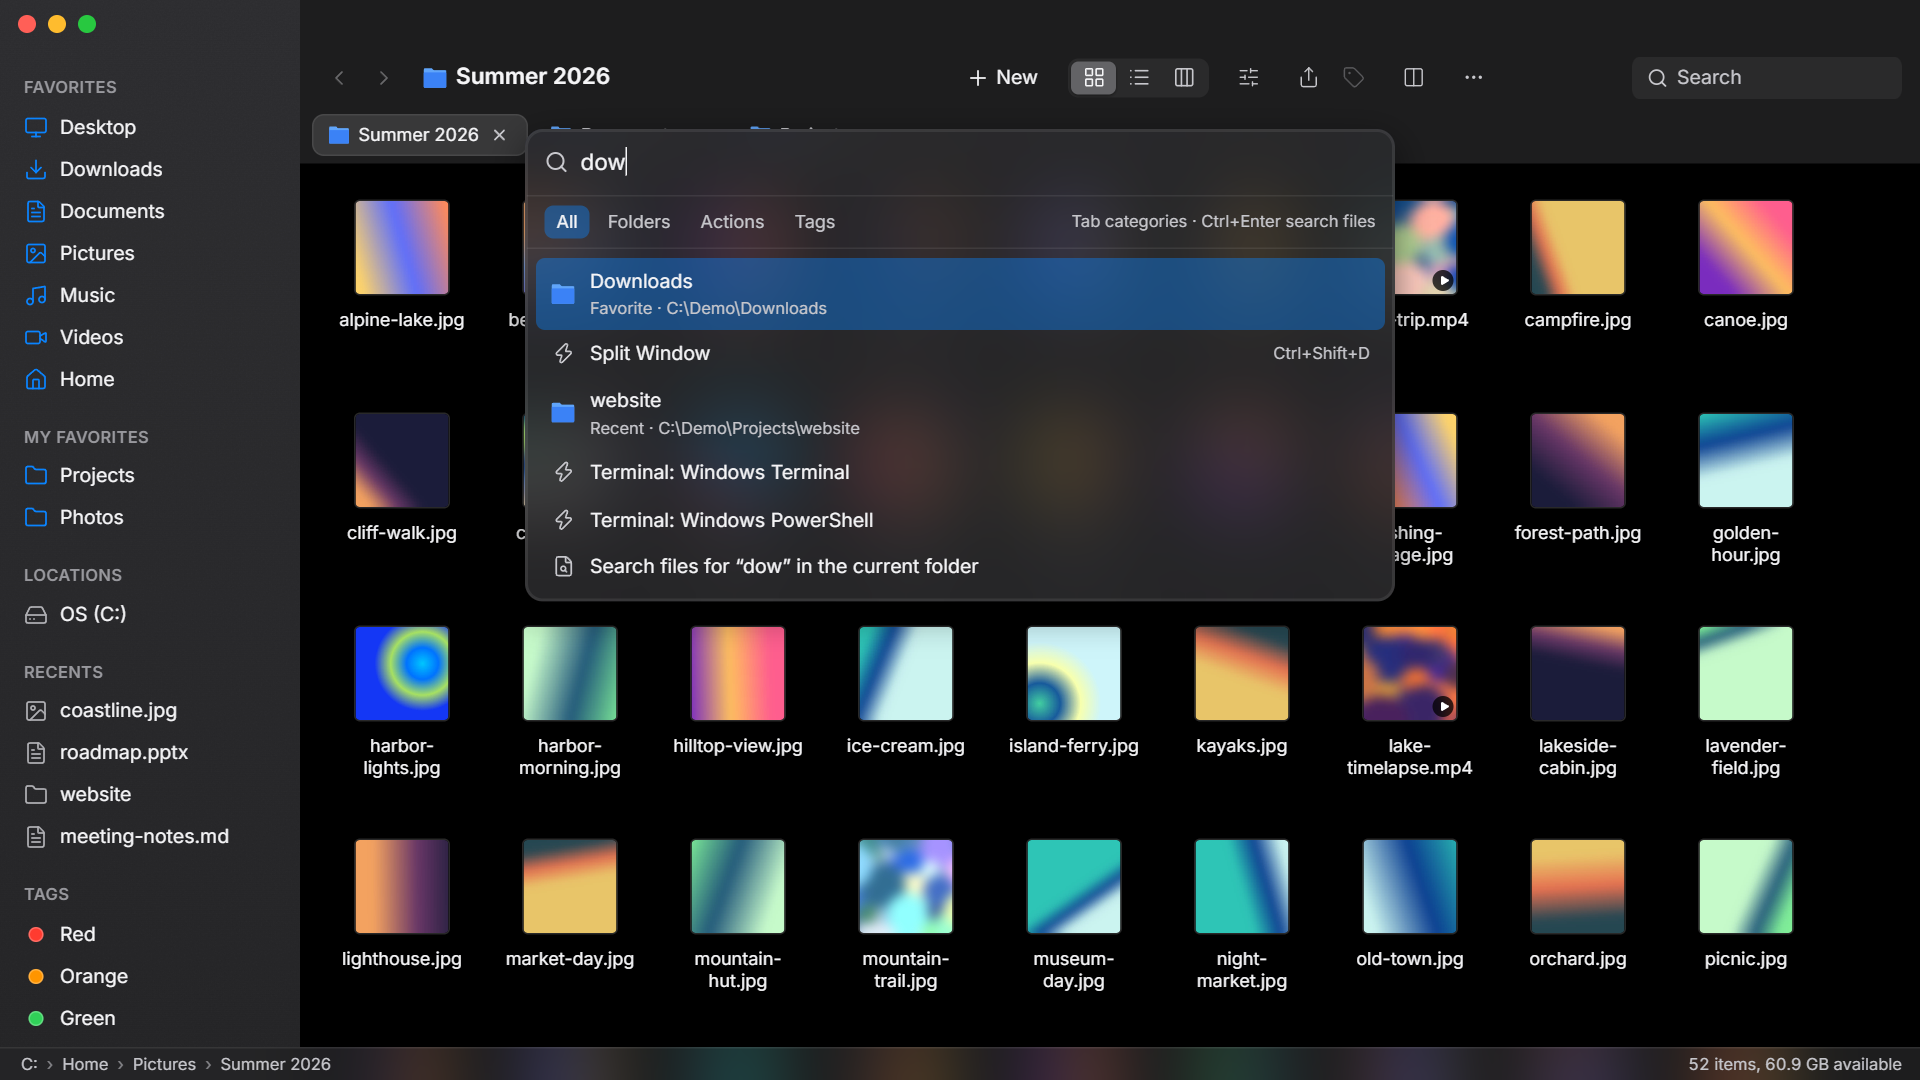
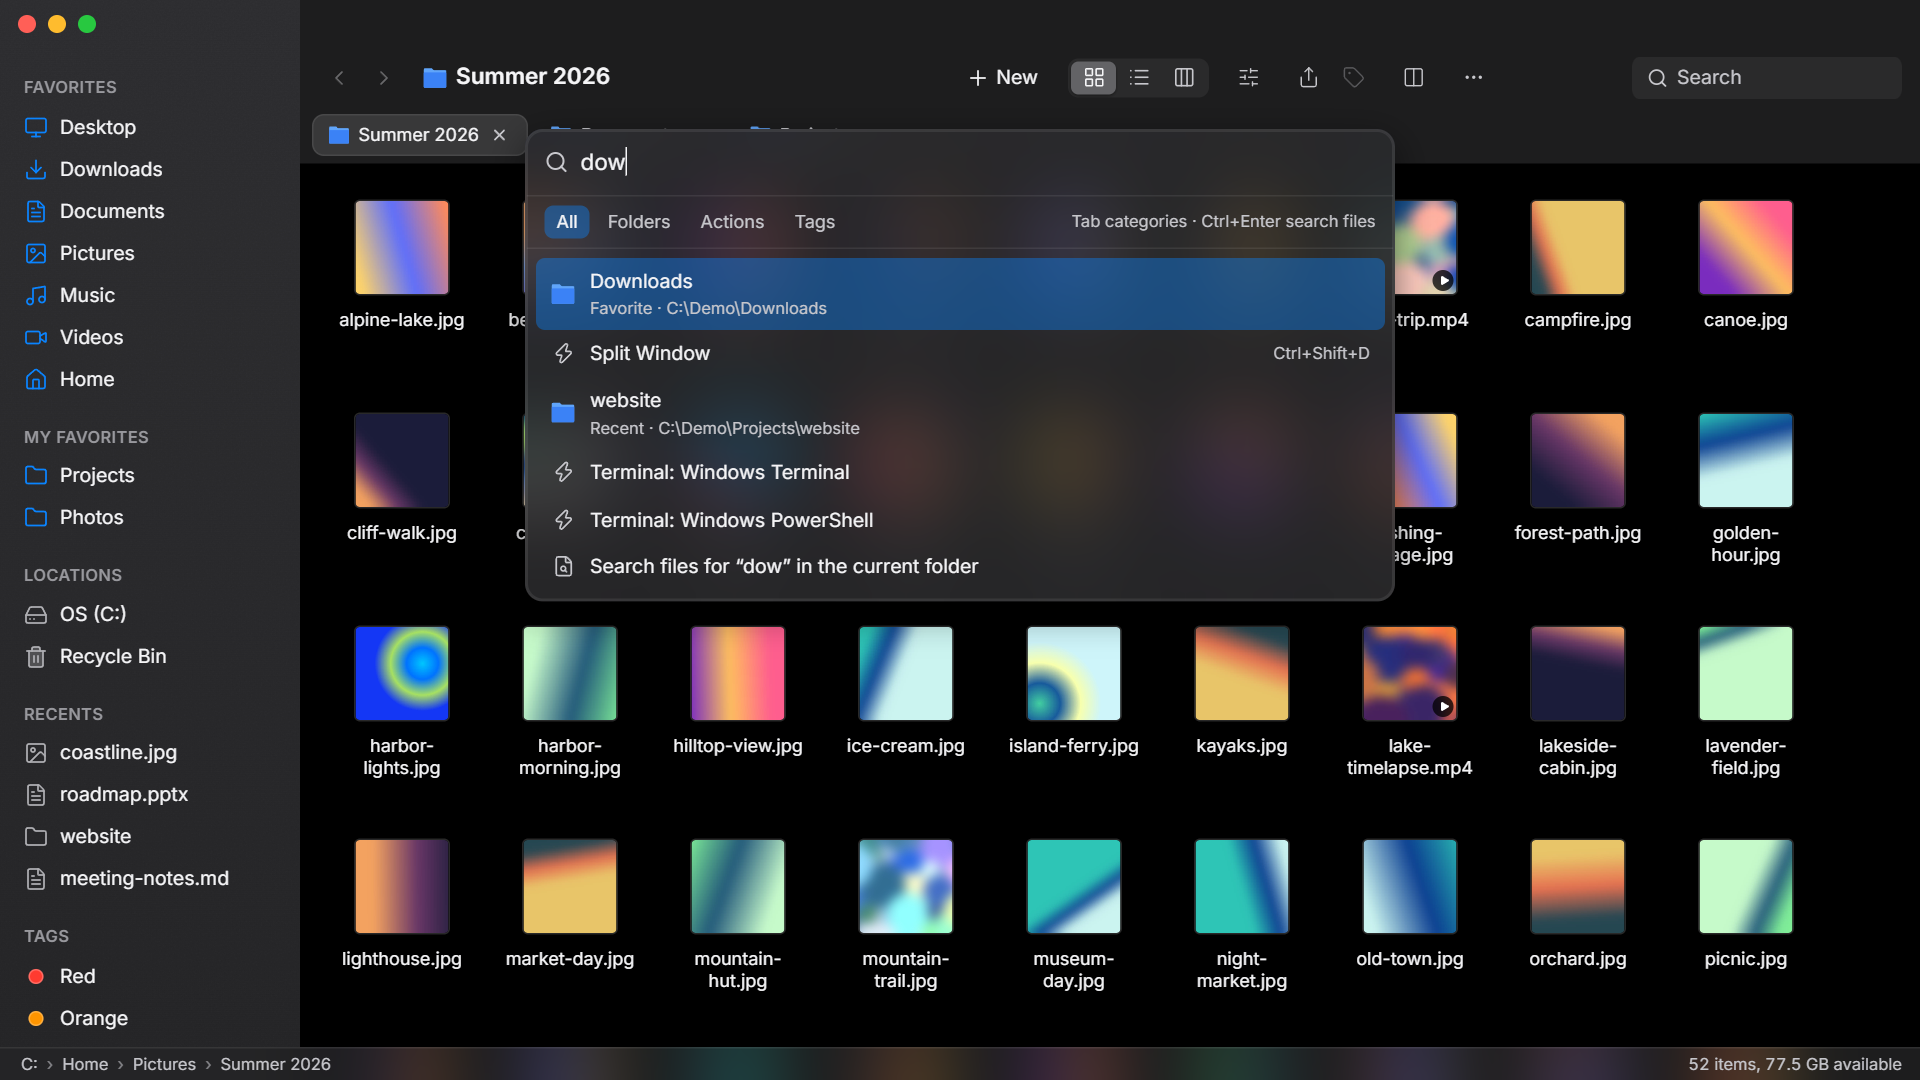
Store 1.5.2: screenshoty ve vzhledu 1.5.2, listing bez Průzkumníku, novinky 1.5.2

diff --git a/docs/store-listing.md b/docs/store-listing.md
@@ -27,7 +27,7 @@ Browse deep folder trees in Column view with a preview pane, or switch to Icons 
 
 Press Ctrl+K to open the command palette: jump to favorites, recent folders and tabs, run any action, or type a path. Press Space for a quick preview – images, PDF, video, audio, text, source code and Markdown.
 
-Finder-Win works with the real Windows clipboard, so you can copy files to and from File Explorer, Outlook or your browser. Drag & drop works both ways: drag files in from File Explorer or the desktop, and drag them out to File Explorer, the desktop, a browser upload, Discord or an e-mail. The New button creates folders, text documents and every file type Windows offers in its New menu. Undo and redo cover the last 50 operations, including deletions (restored from the Recycle Bin).
+Finder-Win works with the real Windows clipboard, so you can copy files to and from other apps such as Outlook or your browser. Drag & drop works both ways: drag files in from other windows or the desktop, and drag them out to other windows, the desktop, a browser upload, Discord or an e-mail. The New button creates folders, text documents and every file type Windows offers in its New menu. Undo and redo cover the last 50 operations, including deletions (restored from the Recycle Bin). The Recycle Bin is right in the sidebar: restore items, delete them permanently or empty it. In protected places, such as the root of the C: drive, choose Continue as Administrator and confirm the Windows prompt.
 
 A translucent glass look is the default. Turn on Transparency in More → Appearance for a transparent window – the desktop and other windows show through the app. Choose the strength from three levels.
 
@@ -36,24 +36,25 @@ Light and dark mode follow Windows. The interface is in English and Czech.
 Privacy: no telemetry, no account, no ads. The Microsoft Store version itself makes no network requests – updates come from the Store.
 
 ### What's new
-Version 1.5.0
-- New default look: glass – the title bar, toolbar, tabs, menus and command palette are translucent and blurred.
-- Window transparency (More → Appearance): a transparent window, the desktop and other windows show through the app; three strengths.
-- Smoother scrolling in long lists.
-- Fixed: the app stopped responding after pressing the Alt key on its own.
-- Fixed: the colour tag palette in the context menu was too narrow.
+Version 1.5.2
+- Recycle Bin in the sidebar: see where items came from and when they were deleted, restore them, delete them permanently or empty the Recycle Bin.
+- Continue as Administrator: deleting, moving, copying, renaming and creating folders in protected places now asks Windows for confirmation instead of failing.
+- Shift+Delete deletes permanently (with confirmation).
+- Clearer error messages that name each failed item and the reason.
+- With Transparency on, files no longer show through under the top bar and the status bar.
 
-### Features (6–10)
+### Features (max 20)
 1. Column view with a preview pane, plus Icons and List views
 2. Tabs with their own history, view and sorting
 3. Split view: two panels, F5 / F6 copy and move between them
 4. Command palette (Ctrl+K) for folders, actions, tags and paths
 5. Quick preview (Space) for images, PDF, video, audio, text and Markdown
 6. Video and PDF thumbnails with duration, resolution and page count
-7. Real Windows clipboard; drag & drop to and from File Explorer, browser, Discord and e-mail
+7. Real Windows clipboard; drag & drop to and from other apps, the desktop, browser, Discord and e-mail
 8. New button: folder, text document and the Windows New file types
 9. Undo / redo for the last 50 file operations
 10. Glass look with optional window transparency; light and dark mode that follows Windows; English and Czech
+11. Recycle Bin in the sidebar: restore, delete permanently, empty
 
 ### Keywords (max 7)
 > Pravidlo Store 10.1.3: klíčová slova nesmí obsahovat Mac, macOS, Finder ani Explorer (v žádném jazyce).
@@ -77,7 +78,7 @@ Hluboké stromy složek procházíš ve sloupcovém zobrazení s náhledovým pa
 
 Ctrl+K otevře paletu příkazů: skok na oblíbené a nedávné složky či záložky, libovolná akce nebo zadání cesty. Mezerník otevře rychlý náhled – obrázky, PDF, video, zvuk, text, zdrojáky i Markdown.
 
-Finder-Win používá skutečnou schránku Windows, takže soubory kopíruješ z i do Průzkumníku, Outlooku nebo prohlížeče. Přetahování funguje oběma směry: soubory přetáhneš dovnitř z Průzkumníku nebo z plochy a ven do Průzkumníku, na plochu, do prohlížeče, Discordu nebo e-mailu. Tlačítko Nový vytvoří složku, textový dokument i jakýkoli typ souboru z nabídky Nový ve Windows. Zpět a Znovu fungují pro posledních 50 operací včetně mazání (obnoví z Koše).
+Finder-Win používá skutečnou schránku Windows, takže soubory kopíruješ z i do jiných aplikací, třeba Outlooku nebo prohlížeče. Přetahování funguje oběma směry: soubory přetáhneš dovnitř z jiných oken nebo z plochy a ven do jiných oken, na plochu, do prohlížeče, Discordu nebo e-mailu. Tlačítko Nový vytvoří složku, textový dokument i jakýkoli typ souboru z nabídky Nový ve Windows. Zpět a Znovu fungují pro posledních 50 operací včetně mazání (obnoví z Koše). Koš je přímo v postranním panelu: položky obnovíš, trvale smažeš nebo koš vysypeš. V chráněných místech, třeba v kořeni disku C:, zvolíš Pokračovat jako správce a potvrdíš výzvu Windows.
 
 Výchozí je skleněný vzhled s poloprůhlednými panely. V Více → Vzhled zapneš Průhlednost: průhledné okno, za aplikací prosvítá plocha a okna. Vybereš sílu ze tří úrovní.
 
@@ -86,24 +87,25 @@ Světlý a tmavý režim se řídí Windows. Rozhraní je česky a anglicky.
 Soukromí: žádná telemetrie, žádný účet, žádné reklamy. Verze z Microsoft Storu sama nedělá žádné síťové požadavky – aktualizace přicházejí ze Storu.
 
 ### Novinky
-Verze 1.5.0
-- Nový výchozí vzhled: sklo – titulek, toolbar, záložky, menu i paleta příkazů jsou poloprůhledné a rozmazané.
-- Průhlednost okna (Více → Vzhled): průhledné okno, za aplikací prosvítá plocha a okna; tři síly.
-- Plynulejší scroll v dlouhých seznamech.
-- Opraveno: aplikace přestala reagovat po stisku samotné klávesy Alt.
-- Opraveno: paleta barevných štítků v kontextovém menu byla příliš úzká.
+Verze 1.5.2
+- Koš v postranním panelu: odkud položky pocházejí a kdy byly smazány, obnovení, trvalé smazání i vysypání koše.
+- Pokračovat jako správce: mazání, přesun, kopírování, přejmenování a nové složky v chráněných místech si místo chyby vyžádají potvrzení Windows.
+- Shift+Delete maže trvale (s potvrzením).
+- Srozumitelnější chybové hlášky – u každé položky název a důvod.
+- Při zapnuté průhlednosti už pod horní lištou a stavovým řádkem neprosvítají soubory.
 
-### Funkce (6–10)
+### Funkce (max 20)
 1. Sloupcové zobrazení s náhledovým panelem, k tomu Ikony a Seznam
 2. Záložky s vlastní historií, zobrazením a řazením
 3. Rozdělené okno: dva panely, F5 / F6 kopíruje a přesouvá mezi nimi
 4. Paleta příkazů (Ctrl+K) pro složky, akce, štítky a cesty
 5. Rychlý náhled (mezerník) pro obrázky, PDF, video, zvuk, text a Markdown
 6. Náhledy videí a PDF s délkou, rozlišením a počtem stran
-7. Skutečná schránka Windows; přetahování z i do Průzkumníku, prohlížeče, Discordu a e-mailu
+7. Skutečná schránka Windows; přetahování z i do jiných aplikací, na plochu, do prohlížeče, Discordu a e-mailu
 8. Tlačítko Nový: složka, textový dokument a typy souborů z nabídky Nový ve Windows
 9. Zpět / Znovu pro posledních 50 operací
 10. Skleněný vzhled s volitelnou průhledností okna; světlý a tmavý režim podle Windows; čeština a angličtina
+11. Koš v postranním panelu: obnovení, trvalé smazání, vysypání
 
 ### Klíčová slova (max 7)
 > Pravidlo Store 10.1.3: klíčová slova nesmí obsahovat Mac, macOS, Finder ani Explorer (v žádném jazyce).
